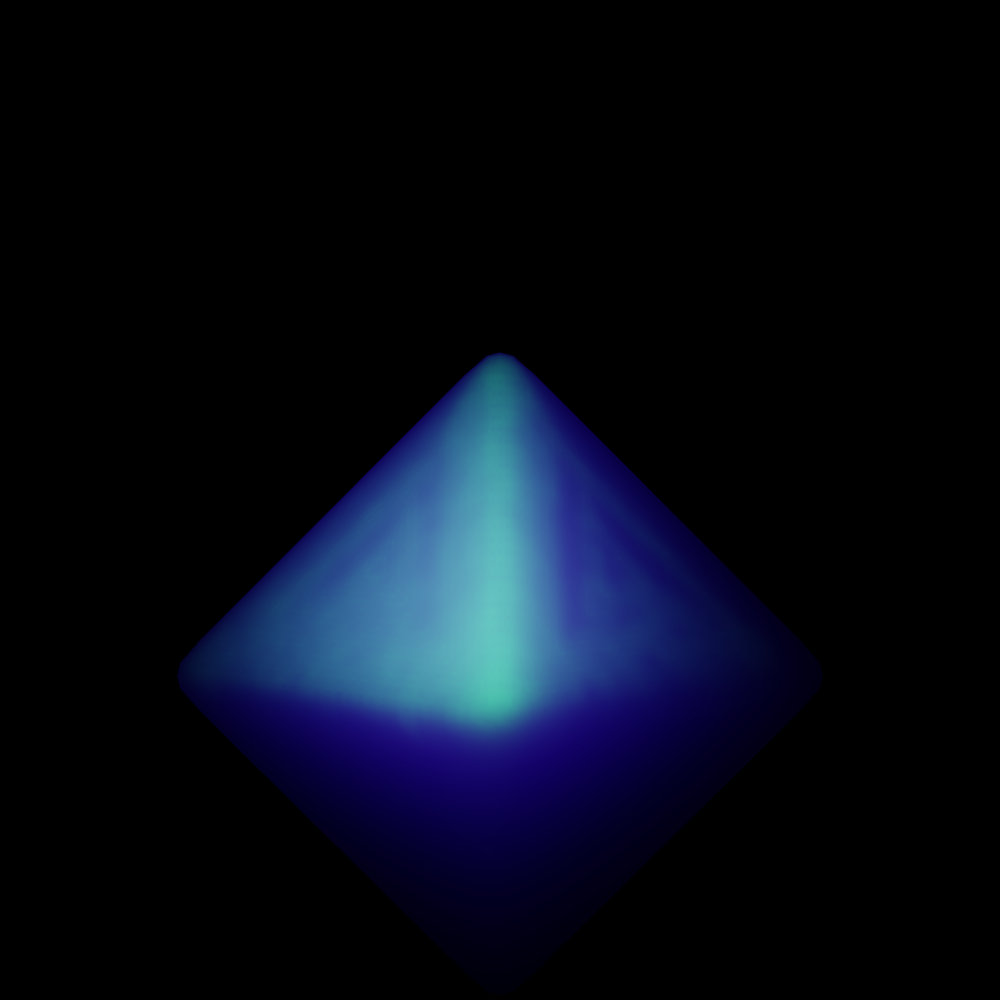
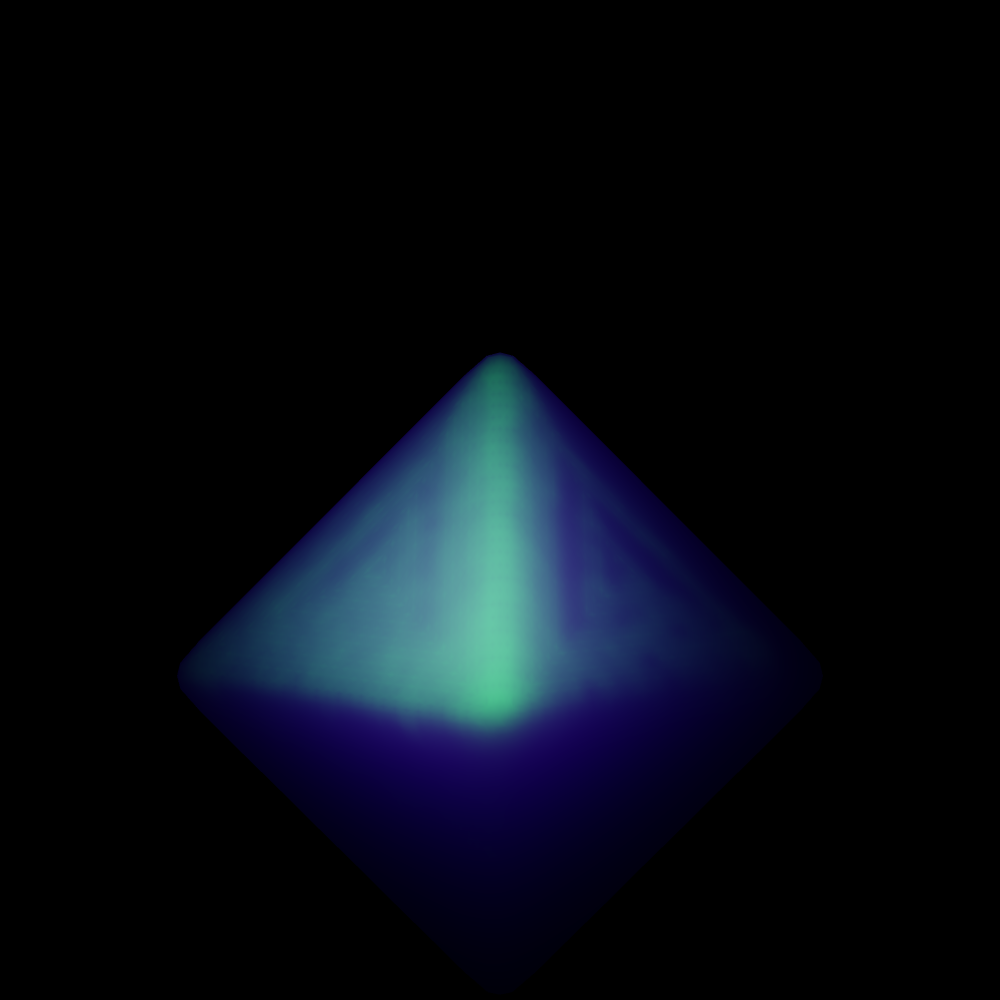
fix color shift in normalized bssrdf

Changed region(s): [[0.248, 0.372, 0.651, 0.775]]

diff --git a/src/main.py b/src/main.py
@@ -265,10 +265,10 @@ def calculate_parameters():
         math.sqrt(3.0 * (1.0 - alpha_prime.y)),
         math.sqrt(3.0 * (1.0 - alpha_prime.z))
     ) * sigma_t_prime
-    s = albedo - 0.8
+    s = albedo - 0.33
     s *= s
-    s = 1.9 - albedo + 3.5 * s
-    dmfp = 1.0 / (s * sigma_t_prime)
+    s = 3.5 + 100 * s * s
+    dmfp = 1.0 / (s * sigma_tr)
     zr = 1.0 / sigma_t_prime
     zv = (1.0 + 4.0 / 3.0 * a) / sigma_t_prime
     reflectance = (1.0 - eta) / (1.0 + eta)
@@ -321,69 +321,6 @@ def collect_vertex_influx() -> luisa.Buffer:
     vertex_influx_buffer = luisa.Buffer.empty(model_vertex_count, float3)
     vertex_influx_kernel(vertex_influx_buffer, 2000, dispatch_size=model_vertex_count)
     return vertex_influx_buffer
-
-
-epsilon = sys.float_info.epsilon
-@luisa.func
-def vertex_total_scattering_kernel(efflux, spp):
-    acc = make_float3(0.0)
-    beta = make_float3(1.0)
-    idx = heap.buffer_read(int, 0, dispatch_id().x)
-    sampler = RandomSampler(make_int3(idx))
-    curr_pos = vertex_buffer.read(idx).xyz
-    curr_dir = -normal_buffer.read(idx).xyz
-    for i in range(spp):
-        for depth in range(20):
-            nxt_event = -log(max(epsilon, sampler.next())) / (sigma_a + sigma_s).x
-            ray = make_ray(curr_pos, curr_dir, 1e-4, nxt_event)
-            hit = accel.trace_closest(ray)
-            if hit.miss():
-                curr_pos += curr_dir * nxt_event
-                curr_dir = uniform_sample_sphere(make_float2(sampler.next(), sampler.next()))
-                beta *= sigma_s / (sigma_a + sigma_s) * 4.0 * math.pi
-            elif hit.inst == 0:
-                i0 = heap.buffer_read(int, 0, hit.prim * 3)
-                i1 = heap.buffer_read(int, 0, hit.prim * 3 + 1)
-                i2 = heap.buffer_read(int, 0, hit.prim * 3 + 2)
-                p0 = vertex_buffer.read(i0)
-                p1 = vertex_buffer.read(i1)
-                p2 = vertex_buffer.read(i2)
-                n0 = normal_buffer.read(i0)
-                n1 = normal_buffer.read(i1)
-                n2 = normal_buffer.read(i2)
-                curr_pos = hit.interpolate(p0, p1, p2)
-                n = normalize(hit.interpolate(n0, n1, n2))
-                onb = make_onb(n)
-                for idx in range(point_light_count):
-                    point_light = point_light_buffer.read(idx)
-                    direction = point_light.position - curr_pos
-                    probe_ray = make_ray(curr_pos, normalize(direction), 1e-3, length(direction))
-                    if not accel.trace_any(probe_ray):
-                        acc += point_light.emission * max(dot(n, normalize(direction)), 0.0)
-                for idx in range(direction_light_count):
-                    direction_light = direction_light_buffer.read(idx)
-                    direction = normalize(-direction_light.direction)
-                    probe_ray = make_ray(curr_pos, direction, 1e-3, 1e10)
-                    if not accel.trace_any(probe_ray):
-                        acc += direction_light.emission * max(dot(n, direction), 0.0)
-                for collection in range(16):
-                    curr_dir = onb.to_world(cosine_sample_hemisphere(make_float2(sampler.next(), sampler.next())))
-                    ray = make_ray(curr_pos, curr_dir, 1e-4, 1e10)
-                    hit = accel.trace_closest(ray)
-                    if not hit.miss() and hit.inst != 0:
-                        i0 = heap.buffer_read(int, hit.inst, hit.prim * 3)
-                        i1 = heap.buffer_read(int, hit.inst, hit.prim * 3 + 1)
-                        i2 = heap.buffer_read(int, hit.inst, hit.prim * 3 + 2)
-                        n0 = normal_buffer.read(i0)
-                        n1 = normal_buffer.read(i1)
-                        n2 = normal_buffer.read(i2)
-                        n = normalize(hit.interpolate(n0, n1, n2))
-                        light = surface_light_buffer.read(hit.inst - 1)
-                        acc += (beta * math.pi / 16) * light.emission * abs(dot(curr_dir, n))
-                break
-            else:
-                break
-    efflux.write(idx, acc)
 
 
 def main():
@@ -469,7 +406,7 @@ def main():
                             acc += influx[i].rgb * a;
                         }
                     }
-                    acc *= albedo * surface_area / float(vertex_count) * transmittance
+                    acc *= albedo * surface_area / float(vertex_count) * transmittance;
                     efflux[vertex_index] = vec4(acc, 1.0);
                 }
             """
